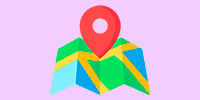
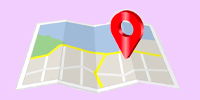
Novas imagens para as caracteristicas, nova versão do código e também novas ordens de posicionamento

diff --git a/ProgramaColeta/InterfaceColetaV4.py b/ProgramaColeta/InterfaceColetaV4.py
@@ -1,0 +1,263 @@
+import tkinter as tk
+from tkinter import ttk
+import pyperclip
+import os
+from datetime import datetime
+
+diretorio_screenshots = "F:\\Projetinhos\\Projeto Dissertação\\Screenshots"
+diretorio_registro = "registro\\"
+set_register_on_lauch = False
+pre_select_features = True
+
+class Componente:
+    imagens = []  # Lista para manter referências às imagens
+
+    def __init__(self, master, texto, imagem_path, row, column):
+        self.checkbox_var = tk.BooleanVar()
+        
+        # Carregar a imagem e armazenar a referência
+        imagem = tk.PhotoImage(file=imagem_path)
+        self.imagens.append(imagem)
+        self.imageview = ttk.Label(master, image=imagem, compound=tk.TOP)
+        self.checkbox = ttk.Checkbutton(master, variable=self.checkbox_var)
+        self.textview = ttk.Label(master, text=texto)
+        #if(row  != 10):
+        #    self.imageview.grid(row=row+2, column=column, padx=0, pady=0)
+#
+        #if row != 11 and not ((row == 8 and column in [7, 8]) or (row == 10 and column in [0, 1, 2])):
+        #    self.checkbox.grid(row=row + 1, column=column, pady=0, padx=15, sticky="w")  
+        #    self.textview.grid(row=row + 1, column=column, pady=0, padx=35, sticky="w") 
+        self.imageview.grid(row=row+2, column=column, padx=0, pady=0)
+        self.checkbox.grid(row=row + 1, column=column, pady=0, padx=15, sticky="w")  
+        self.textview.grid(row=row + 1, column=column, pady=0, padx=35, sticky="w")
+
+        # Adiciona um evento de clique à imagem / texto para acionar o checkbox
+        self.imageview.bind("<Button-1>", lambda event: self.acionar_checkbox())
+        self.textview.bind("<Button-1>", lambda event: self.acionar_checkbox())
+
+    # evento para acionar o checkbox
+    def acionar_checkbox(self):
+        # Inverte o estado da checkbox ao ser clicado na imagem
+        self.checkbox_var.set(not self.checkbox_var.get())
+
+# Crie a janela principal
+janela = tk.Tk()
+janela.title("Programa para coleta")
+
+# Substitua os caminhos reais das imagens e os textos desejados
+dados_componentes = [
+    #
+    #Raramente marcados - Line 1
+    {"texto": "Pre-Loading", "imagem_path": "imagensPrograma\\imagem_acc.png"},
+    {"texto": "Badges", "imagem_path": "imagensPrograma\\imagem_bad.png"},
+    {"texto": "Snackbar", "imagem_path": "imagensPrograma\\imagem_25.png"},
+    {"texto": "Tool tips", "imagem_path": "imagensPrograma\\imagem_30.png"},    
+    {"texto": "Extended FAB", "imagem_path": "imagensPrograma\\imagem_exfab.png"},
+    {"texto": "Floating Action Buttons", "imagem_path": "imagensPrograma\\imagem_fab.png"},
+    {"texto": "Botton app bar", "imagem_path": "imagensPrograma\\imagem_1.png"},
+    {"texto": "Web view", "imagem_path": "imagensPrograma\\imagem_web.png"},
+    {"texto": "Music", "imagem_path": "imagensPrograma\\imagem_mus.png"},
+    #
+    #Poucas vezes marcados  - Line 2
+    {"texto": "Date pickers", "imagem_path": "imagensPrograma\\imagem_12.png"},
+    {"texto": "Time picker dial", "imagem_path": "imagensPrograma\\imagem_dia.png"},
+    {"texto": "Time picker input", "imagem_path": "imagensPrograma\\imagem_29.png"},
+    {"texto": "Radio button", "imagem_path": "imagensPrograma\\imagem_21.png"},
+    {"texto": "Switch", "imagem_path": "imagensPrograma\\imagem_26.png"},
+    {"texto": "Checkbox", "imagem_path": "imagensPrograma\\imagem_9.png"},
+    {"texto": "Sliders", "imagem_path": "imagensPrograma\\imagem_24.png"},
+    {"texto": "Map View", "imagem_path": "imagensPrograma\\imagem_map.png"},
+    {"texto": "Video View", "imagem_path": "imagensPrograma\\imagem_vid.png"},
+    #
+    #De vez em quando marcados  - Line 3
+    {"texto": "Segmented Buttons", "imagem_path": "imagensPrograma\\imagem_seg.png"},
+    {"texto": "Chips", "imagem_path": "imagensPrograma\\imagem_10.png"},
+    {"texto": "Primary tabs", "imagem_path": "imagensPrograma\\imagem_27.png"},
+    {"texto": "Secondary tabs", "imagem_path": "imagensPrograma\\imagem_sec.png"},
+    {"texto": "Bottom sheets", "imagem_path": "imagensPrograma\\imagem_22.png"},
+    {"texto": "Side sheets", "imagem_path": "imagensPrograma\\imagem_23.png"},
+    {"texto": "Menus", "imagem_path": "imagensPrograma\\imagem_17.png"},
+    {"texto": "Progress indicators (horizontal)", "imagem_path": "imagensPrograma\\imagem_20.png"},
+    {"texto": "Progress indicators analogico", "imagem_path": "imagensPrograma\\imagem_ana.png"},
+    #
+    # Frequentemente marcados - Line 4
+    {"texto": "Acccount", "imagem_path": "imagensPrograma\\imagem_acc.png"},
+    {"texto": "Noturno", "imagem_path": "imagensPrograma\\imagem_dark.png"},
+    {"texto": "Paisagem", "imagem_path": "imagensPrograma\\imagem_pai.png"},   
+    {"texto": "Sound Effects", "imagem_path": "imagensPrograma\\imagem_sound.png"},
+    {"texto": "Social", "imagem_path": "imagensPrograma\\imagem_social.png"},
+    {"texto": "Text field", "imagem_path": "imagensPrograma\\imagem_28.png"},
+    {"texto": "Search", "imagem_path": "imagensPrograma\\imagem_ser.png"},
+    {"texto": "Dialog", "imagem_path": "imagensPrograma\\imagem_13.png"},
+    {"texto": "Dialog full-screen", "imagem_path": "imagensPrograma\\imagem_fls.png"},
+    #
+    #Muitas vezes marcados  - Line 5
+    {"texto": "Navigation rail", "imagem_path": "imagensPrograma\\imagem_19.png"},
+    {"texto": "Navigation drawer", "imagem_path": "imagensPrograma\\imagem_18.png"},
+    {"texto": "Navigation bar", "imagem_path": "imagensPrograma\\imagem_5.png"},
+    {"texto": "Top app bar", "imagem_path": "imagensPrograma\\imagem_2.png"},
+    {"texto": "Cards", "imagem_path": "imagensPrograma\\imagem_8.png"},
+    {"texto": "MultiCard", "imagem_path": "imagensPrograma\\imagem_cards.png"},
+    {"texto": "Carousel", "imagem_path": "imagensPrograma\\imagem_car.png"},
+    {"texto": "Divider", "imagem_path": "imagensPrograma\\imagem_14.png"},
+    {"texto": "Lists", "imagem_path": "imagensPrograma\\imagem_16.png"},
+    #
+    #pre-marcados  - Line 6
+    {"texto": "Common buttons", "imagem_path": "imagensPrograma\\imagem_6.png"},
+    {"texto": "Icon Buttons", "imagem_path": "imagensPrograma\\imagem_btt.png"},
+    {"texto": "Text View", "imagem_path": "imagensPrograma\\imagem_text.png"},
+    {"texto": "Image View", "imagem_path": "imagensPrograma\\imagem_im.png"},
+
+
+
+    
+    
+    
+]
+
+# Variáveis para organizar as colunas
+max_componentes_por_coluna = 9
+
+# Instancie os componentes dinamicamente
+componentes = []
+for i, dados in enumerate(dados_componentes):
+    coluna = i % max_componentes_por_coluna
+    linha = i // max_componentes_por_coluna * 2
+    componente = Componente(janela, dados["texto"], dados["imagem_path"], row=linha, column=coluna)
+    componentes.append(componente)
+
+# Adicione o botão "Obter Dados" e o combobox na última linha e última coluna
+#botao = ttk.Button(janela, text="printdata", command=lambda: print(obter_estado_checkboxes())) #opcao para printar no console
+botao = ttk.Button(janela, text="Copy to Clip", command=lambda: copyToClip()) #opcao para copiar para a clipboard
+botao.grid(row=11, column=8, columnspan=max_componentes_por_coluna, pady=0,padx=15)
+
+#botão que marca se vai ser adicionado ao registro ou não
+goToRegister = tk.BooleanVar()
+goToRegister.set(set_register_on_lauch)
+registerCheck = ttk.Checkbutton(janela, variable=goToRegister, style='TRadiobutton', text='R')
+registerCheck.grid(row=11, column=8, columnspan=max_componentes_por_coluna, pady=0,padx=20,sticky="w")
+
+#adiciona botão para resetar coleta
+botao2 = ttk.Button(janela, text="Resetar Marcas", command=lambda: premarcacao_checkbox())
+botao2.grid(row=12, column=8, columnspan=max_componentes_por_coluna, pady=0,padx=0)
+
+#campo de texto APPNUM
+labelNum = ttk.Label(text="NúmeroApp:")
+labelNum.grid(row=11, column=6, columnspan=max_componentes_por_coluna, pady=0,padx=0,sticky="w")
+appNum = ttk.Entry(janela, text="0")
+appNum.grid(row=11, column=6, columnspan=max_componentes_por_coluna, pady=0,padx=75,sticky="w")
+
+#adiciona imagem arcoiris
+imageTK = tk.PhotoImage(file='imagensPrograma\\imagem_lgbt.png')
+imgLGBT = ttk.Label(image=imageTK, compound=tk.TOP)
+imgLGBT.grid(row=12, column=7, columnspan=max_componentes_por_coluna, pady=0,padx=0,sticky="w")
+#falta arrumar isso aqui
+
+#adiciona botão para aumentar appnum
+botaoAu = ttk.Button(janela, text="+", command=lambda: changeAppNum(True))
+botaoAu.grid(row=12, column=6, columnspan=max_componentes_por_coluna, pady=0,padx=90,sticky="w")
+
+#adiciona botão para diminuir appnum
+botaoDi = ttk.Button(janela, text="-", command=lambda: changeAppNum(False))
+botaoDi.grid(row=12, column=6, columnspan=max_componentes_por_coluna, pady=0,padx=0,sticky="w")
+
+opcoes_combobox = ["Não avaliado","Vermelho","Laranja","Amarelo","Verde","Azul","Indigo","Violeta","Preto"]
+combobox = ttk.Combobox(janela, values=opcoes_combobox)
+combobox.grid(row=11, column=7, columnspan=max_componentes_por_coluna, pady=0,padx=15,sticky="w")
+combobox.current(0)  # Defina a opção inicial
+
+# Configuração da grade para expandir os componentes
+for i in range(max_componentes_por_coluna):
+    janela.grid_columnconfigure(i, weight=1)
+    janela.grid_rowconfigure(i, weight=1,minsize=0)
+
+def copyToClip():
+    estados = 'True\t' + obter_estado_checkboxes()
+    
+    pyperclip.copy(estados)
+    print("Dado copiado para a clipboard")
+    if goToRegister.get() : gravar_em_registro(estados)
+    criar_pasta()
+
+#aumenta ou diminui o valor inteiro no campo appnumber
+def changeAppNum (aumenta):
+    a = int(appNum.get())
+    if aumenta : 
+        a =  a + 1
+    else :
+        a =  a - 1
+    #print(a)
+    appNum.delete(0, tk.END)
+    appNum.insert(0, a)
+          
+#cria pasta se tiver um número inteiro no campo appnumber
+def criar_pasta():
+    temp = 0
+    try:
+        temp = int(appNum.get()) #pega e transforma em int o número do textField appNum
+        nome_pasta = str(temp)
+        
+        if nome_pasta and diretorio_screenshots:
+            caminho_pasta = os.path.join(diretorio_screenshots, nome_pasta)
+
+            try:
+                os.makedirs(caminho_pasta)
+                print(f'Pasta "{nome_pasta}" criada em "{diretorio_screenshots}"\n')
+                appNum.delete(0, tk.END) #deleta o número do textField appNum
+                appNum.insert(0, temp+1) #incrementa o número do textField appNum
+            except FileExistsError:
+                print(f'A pasta "{nome_pasta}" já existe em "{diretorio_screenshots}"\n')
+            except Exception as e:
+                print(f'Ocorreu um erro ao criar a pasta: {e}')
+        else:
+            print("Nome de pasta inválido")
+    except ValueError:
+        #print("Criação de pasta desabilitada")
+        print("")
+
+def gravar_em_registro(estados_checkbox):
+    # Obter a data e hora atual
+    data_hora_atual = datetime.now().strftime("%Y-%m-%d %H:%M:%S")
+
+    # Criar a string que pega o número do aplicativo atual, a data e hora atual e os estados
+    linha = f"{str(appNum.get())}/{data_hora_atual}: {estados_checkbox}\n" 
+
+    # Nome do arquivo
+    nome_arquivo = diretorio_registro + "registro.txt"
+
+    # Verificar se o arquivo existe, se não, criá-lo
+    if not os.path.isfile(nome_arquivo):
+        print("Arquivo de registro criado")
+        with open(nome_arquivo, "w"):
+            pass
+
+    # Abrir o arquivo em modo de adição e gravar a linha
+    with open(nome_arquivo, "a") as arquivo:
+        arquivo.write(linha)
+    
+    print("Dados gravados em registro")
+
+
+#seta os componentes da forma correta 
+def premarcacao_checkbox():
+    i = 0
+    combobox.current(0)
+    for componente in componentes:
+            componente.checkbox_var.set(False)
+            if pre_select_features : 
+                if i == 0 : componente.checkbox_var.set(True) # Marcando o componente Common Button
+                if i == 1 : componente.checkbox_var.set(True) # Marcando o componente Icon Button
+                if i == 2 : componente.checkbox_var.set(True) # Marcando o componente Text View
+                if i == 3 : componente.checkbox_var.set(True) # Marcando o componente ImageView
+                #if i == 1 : componente.checkbox_var.set(True) # Marcando o componente 
+                i = i + 1
+
+def obter_estado_checkboxes():
+    estados = [componente.checkbox_var.get() for componente in componentes]
+    opcao_combobox = combobox.get()
+    premarcacao_checkbox()
+    return f"{'\t'.join(map(str, estados))}\t{opcao_combobox}"
+
+premarcacao_checkbox()
+# Inicie o loop principal
+janela.mainloop()
